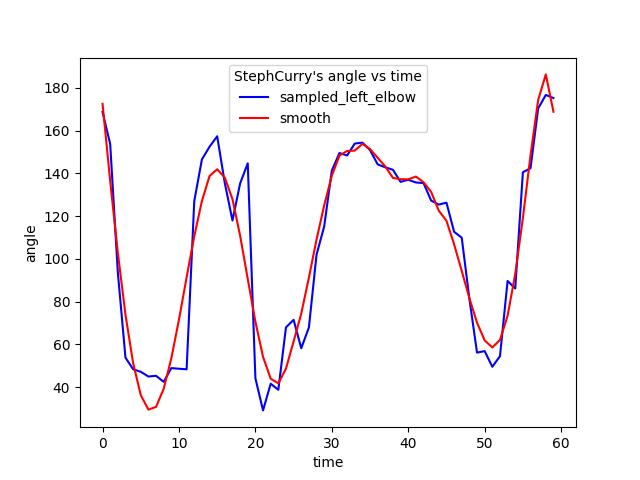
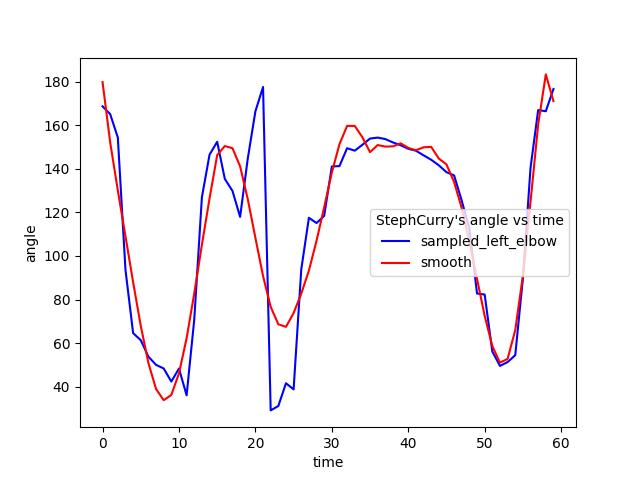
my change

diff --git a/margin.py b/margin.py
@@ -15,7 +15,7 @@ import seaborn as sns
 import os
 
 # filename = "./videos/JJ1.mp4"
-filenames = ["./videos/JJ1.mp4", "./videos/StephCurry.mp4"]
+filenames = ["JJ1.mp4", "StephCurry.mp4"]
 path = './videos'
 # filenames = os.listdir(path)
 
@@ -43,6 +43,8 @@ right_knee_angles = []
 images = []
 y_values =[]
 for filename in filenames:
+    # filename is the name of each file. Should append folder name
+    filename = './videos/'+filename
     # clear list 
     images = []
     left_elbow_angles.clear()
@@ -177,86 +179,101 @@ for filename in filenames:
     # samples are indices that will be filtered out
     samples = np.random.choice(np.arange(len(times)), size=len(times) - 60, replace=False) # want to fix the number of frames at 60
     # print(samples)
-    sampled_left_elbow_angles = []        
-    for i, angle in enumerate(left_elbow_angles):
-        if i not in samples:
-            # print(i)
-            sampled_left_elbow_angles.append(angle)            
-    sampled_times = np.arange(60) # mostly 30 fps and most given videos are of 2secs
-    # print(sampled_left_elbow_angles)
-    sampled_left_elbow_angles = np.array(sampled_left_elbow_angles)
-    print(f'After sampling: {len(sampled_times)}')
-    plt.plot(sampled_times, sampled_left_elbow_angles, color='b', label = 'sampled_left_elbow')
-    plt.savefig(f"./output-images/{filename[9:-4]}'s sampled-unsmooth-angle-vs-time.jpg")
-    ###### sampling #####
+    sampled_left_elbow_angles = [] 
     
-    ##### smooth a curve #####
-    # cubic_interpolation_model = interp1d(times, left_elbow_angles, kind = "cubic")
-    cubic_interpolation_model = interp1d(sampled_times, sampled_left_elbow_angles)
+    sampled_right_elbow_angles = []
+    sampled_right_shoulder_angles = []
+    sampled_right_wrist_angles = []
+    sampled_right_hip_angles = []
+    sampled_right_knee_angles = []
+           
+    sampled_angles_in_interest = [sampled_right_elbow_angles, sampled_right_shoulder_angles, sampled_right_wrist_angles, sampled_right_hip_angles, sampled_right_knee_angles]
+    
+    angles_in_interest = [right_elbow_angles, right_shoulder_angles, right_wrist_angles, right_hip_angles, right_knee_angles ]
+    
+    for j, intersest in enumerate(sampled_angles_in_interest):       
+        for i, angle in enumerate(angles_in_interest[i]):
+            if i not in samples:
+                # print(i)
+                intersest.append(angle)            
+        sampled_times = np.arange(60) # mostly 30 fps and most given videos are of 2secs
+        # print(sampled_left_elbow_angles)
+        intersest = np.array(intersest)
+        print(f'After sampling: {len(sampled_times)}')
+        plt.plot(sampled_times, intersest, color='b', label = 'sampled_left_elbow')
+        plt.savefig(f"./output-images/{filename[9:-4]}'s sampled-unsmooth-angle-vs-time.jpg")
+        ###### sampling #####
+        
+        ##### smooth a curve #####
+        # cubic_interpolation_model = interp1d(times, left_elbow_angles, kind = "cubic")
+        cubic_interpolation_model = interp1d(sampled_times, intersest)
 
-    # times = np.array(times)
-    sampled_times = np.array(sampled_times)
-    # X_ = np.linspace(times.min(), times.max(), 50)
-    # Y_ = cubic_interpolation_model(times)
-    # Y_ = cubic_interpolation_model(sampled_times)
-    
-    # apply smoothing filter   
-    # Y_ = savgol_filter(Y_, len(times), 50)
-    Y_ = sampled_left_elbow_angles
-    Y_ = savgol_filter(Y_, window_length=30, polyorder=7)
-    
-    # for margin graph
-    y = -Y_
-    # add list y of each video 
-    print(f'{filename} video frames: {len(y)}')
-    y_values += list(y)
-    ##### smooth a curve #####
-    
-    ## plot each angle
-    # plot left angles
-    # plt.plot(times,Y_, color='r', label='smooth')
-    plt.plot(sampled_times,Y_, color='r', label='smooth')
-    # plt.plot(times, left_shoulder_angles, color='r', label='left_shoulder')
-    # plt.plot(times, left_wrist_angles, color='g', label = 'left wrist')
-    # plt.plot(times, left_hip_angles, color='y', label = 'left hip')
-    # plt.plot(times, left_knee_angles, color='m', label = 'left knee')
+        # times = np.array(times)
+        sampled_times = np.array(sampled_times)
+        # X_ = np.linspace(times.min(), times.max(), 50)
+        # Y_ = cubic_interpolation_model(times)
+        # Y_ = cubic_interpolation_model(sampled_times)
+        
+        # apply smoothing filter   
+        # Y_ = savgol_filter(Y_, len(times), 50)
+        Y_ = intersest
+        Y_ = savgol_filter(Y_, window_length=30, polyorder=7)
+        
+        # for margin graph
+        y = -Y_
+        # add list y of each video 
+        print(f'{filename} video frames: {len(y)}')
+        y_values += list(y) # this y has each video's angles
+        ##### smooth a curve #####
+        
+        ## plot each angle
+        # plot left angles
+        # plt.plot(times,Y_, color='r', label='smooth')
+        plt.plot(sampled_times,Y_, color='r', label='smooth')
+        # plt.plot(times, left_shoulder_angles, color='r', label='left_shoulder')
+        # plt.plot(times, left_wrist_angles, color='g', label = 'left wrist')
+        # plt.plot(times, left_hip_angles, color='y', label = 'left hip')
+        # plt.plot(times, left_knee_angles, color='m', label = 'left knee')
 
-    # plot right angles
-    # plt.plot(times, right_elbow_angles, color='#87CEEB', label = 'right_elbow')
-    # plt.plot(times, right_shoulder_angles, color='#FFC0CB', label='right_shoulder')
-    # plt.plot(times, right_wrist_angles, color='#90EE90', label = 'right wrist')
-    # plt.plot(times, right_hip_angles, color='#FFF01F', label = 'right hip')
-    # plt.plot(times, right_knee_angles, color='#A020F0', label = 'right knee')
+        # plot right angles
+        # plt.plot(times, right_elbow_angles, color='#87CEEB', label = 'right_elbow')
+        # plt.plot(times, right_shoulder_angles, color='#FFC0CB', label='right_shoulder')
+        # plt.plot(times, right_wrist_angles, color='#90EE90', label = 'right wrist')
+        # plt.plot(times, right_hip_angles, color='#FFF01F', label = 'right hip')
+        # plt.plot(times, right_knee_angles, color='#A020F0', label = 'right knee')
 
-    plt.xlabel('time')
-    plt.ylabel('angle')
-    plt.legend(title=f"{filename[9:-4]}'s angle vs time")
-    plt.savefig(f"./output-images/{filename[9:-4]}'s sampled smoothed angle-vs-time.jpg")
-    plt.show(block=False)
-    plt.close()
-    
-
+        plt.xlabel('time')
+        plt.ylabel('angle')
+        plt.legend(title=f"{filename[9:-4]}'s angle vs time")
+        plt.savefig(f"./output-images/{filename[9:-4]}'s sampled smoothed angle-vs-time.jpg")
+        plt.show(block=False)
+        plt.close()
     
 
+    
+
+# len(y_values) should bue # videos * 60 * # angles = 10 * 60 * 5... for each video, log 60 floats of each angle -> 60 * 5.  10 videos -> 10*60*5
+# so should be 60 * something
 
 # visualize margin   
 sns.set()
 y_values = np.negative(y_values)
 print(f'y_values length: {len(y_values)}')
-y_values = np.array(y_values).reshape(2, -1)
+y_values = np.array(y_values).reshape(len(filenames), -1)
 y_means = np.mean(y_values, axis=0)
 y_std = np.std(y_values, axis=0)
 y_diff = y_values[0] - y_values[1]
 
 # save data
-with open(r'./data/elbowMargin', 'w') as fp:
-    fp.writelines(y_values)
+np.savetxt(r'./data/right-elbow-angles', y_values)
+# with open(r'./data/elbowMargin', 'w') as fp:
+#     fp.writelines(list(y_values))
 
 
 print("y_std.shape: {}".format(y_std.shape))
 print(f'y_values.shape: {y_means.shape}')
-print("y_values: {}".format(y_values))
-print("y_diff: {}".format(y_diff))
+# print("y_values: {}".format(y_values))
+# print("y_diff: {}".format(y_diff))
 
 
 x_axis = np.arange(len(y_means))   
